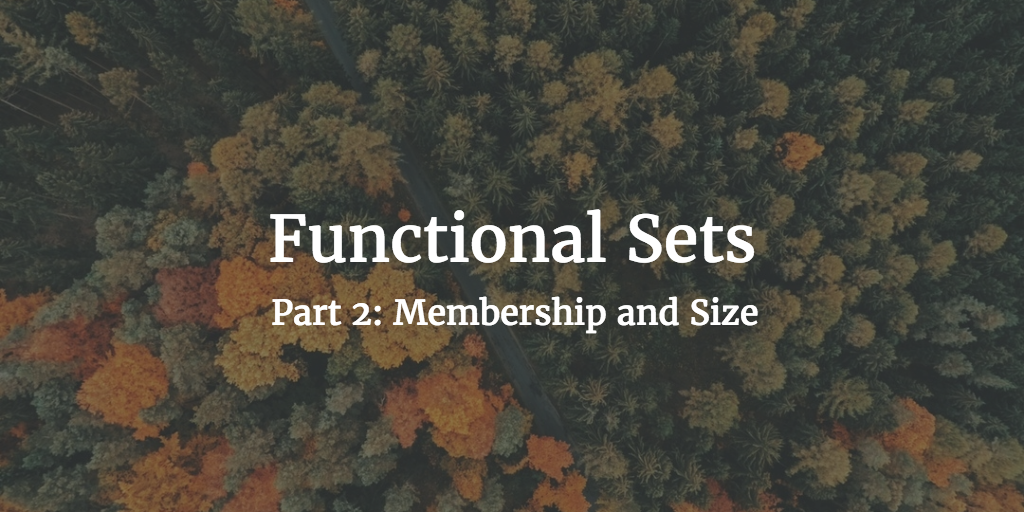
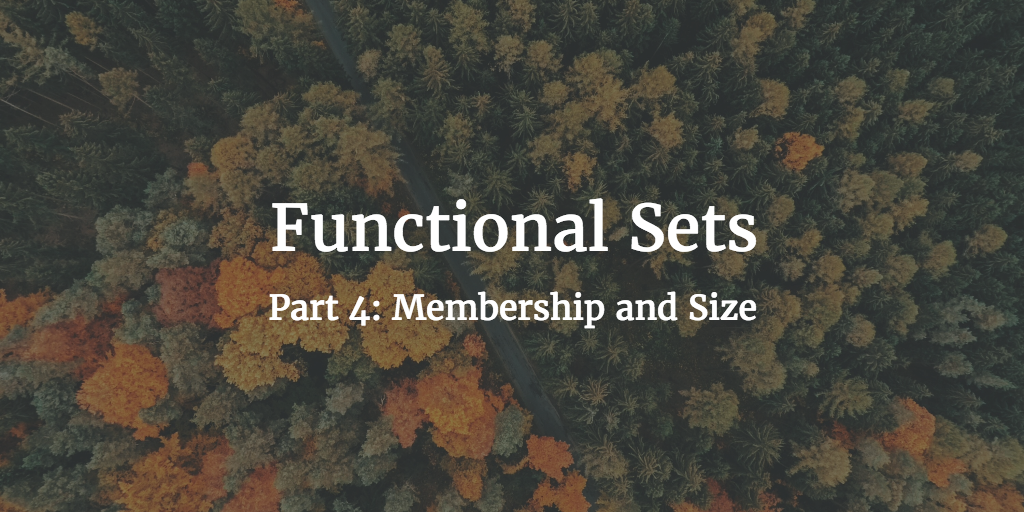
post(sets-member-size): update place in series

Changed region(s): [[0.25, 0.375, 0.75, 0.5312], [0.25, 0.5625, 0.75, 0.6562]]

diff --git a/content/post/sets-member-size.md b/content/post/sets-member-size.md
@@ -1,6 +1,6 @@
 ---
-date: "2016-11-21T09:00:00-06:00"
-title: "Functional Sets, Part 2: Membership and Size"
+date: "2016-12-05T09:00:00-06:00"
+title: "Functional Sets, Part 4: Membership and Size"
 tags: ["elm"]
 featureimage: "/images/trees-by-jakub-sejkora.jpeg"
 thumbnail: "/images/trees-by-jakub-sejkora-with-title.png"
@@ -9,9 +9,8 @@ draft: true
 
 ---
 
-[Last time]({{< ref "sets-intro.md" >}}) we started making a set using a binary search tree.
-Let's continue by adding more functionality to our set!
-We're going to answer two questions:
+Now that [our trees balance themselves]({{< ref "sets-balance.md" >}}) we can keep replicating the built-in set API.
+This week, we'll answer two questions:
 
 1. Is an item in the set?
 2. How many items are in the set?
@@ -22,39 +21,16 @@ And we're going to do it recursively!
 
 ## Quick Recap
 
-Our sets are [binary search trees](https://en.wikipedia.org/wiki/Binary_search_tree) under the covers.
+Our sets are [AVL trees](https://en.wikipedia.org/wiki/AVL_tree) (a kind of [binary search tree](https://en.wikipedia.org/wiki/Binary_search_tree)) under the covers.
 We've modeled this data structure in our Elm code like this:
 
 ```elm
 type Set comparable
-    = Set comparable (Set comparable) (Set comparable)
+    = Set Int comparable (Set comparable) (Set comparable)
     | Empty
 ```
 
 We can create empty sets using `empty`, sets with a single item using `singleton`, and bigger sets by using `insert` or `fromList`.
-
-## Balanced Lies
-
-I have a confession to make: our implementation of `insert` (and thus `fromList`) behaves badly right now.
-It's quite naive!
-In an ideal world, if you ran `fromList [1, 2, 3, 4, 5]` you'd get this:
-
-{{< figure src="/images/sets/one-through-five-balanced.png"
-           caption="A balanced tree containing the numbers 1 through 5." >}}
-
-But if you run it against the code we implemented last time, you'll get this instead:
-
-{{< figure src="/images/sets/one-through-five-unbalanced.png"
-           caption="An unbalanced tree, the result of a naive insert implementation" >}}
-
-In a small set, this doesn't make a huge difference.
-But it means that the functions we'll implement today won't be as fast as they could be on larger sets.
-For now, we'll assume we're working with a well-balanced tree.
-For 1 through 5, we can get it with `fromList [3, 2, 4, 1, 5]`.
-
-Smarter people than I have spilled much ink about self-balancing trees.
-So I'm going to do what every respectable programmer does: ignore it.
-We'll cover fixing this regressive behavior later in this series, after we're all done with writing things that can change our trees.
 
 ## Membership / Contains
 
@@ -139,7 +115,6 @@ Our code would return `False`, and we'd get that back out the top.
 
 ## Count on Me
 
-We're all good with testing for membership now.
 Let's finish off by figuring out how many items are in our set.
 In `oneThroughFive`, the answer is `5`.
 We'll call the new function `size`.
